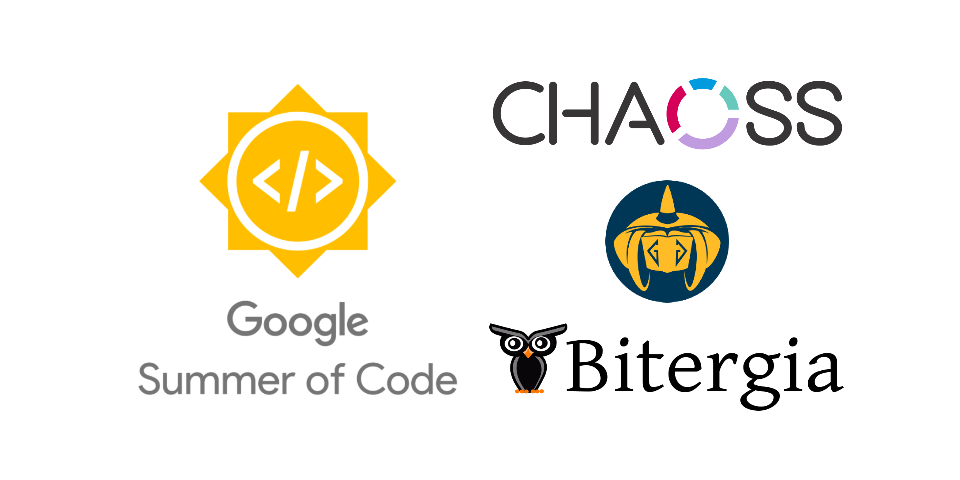
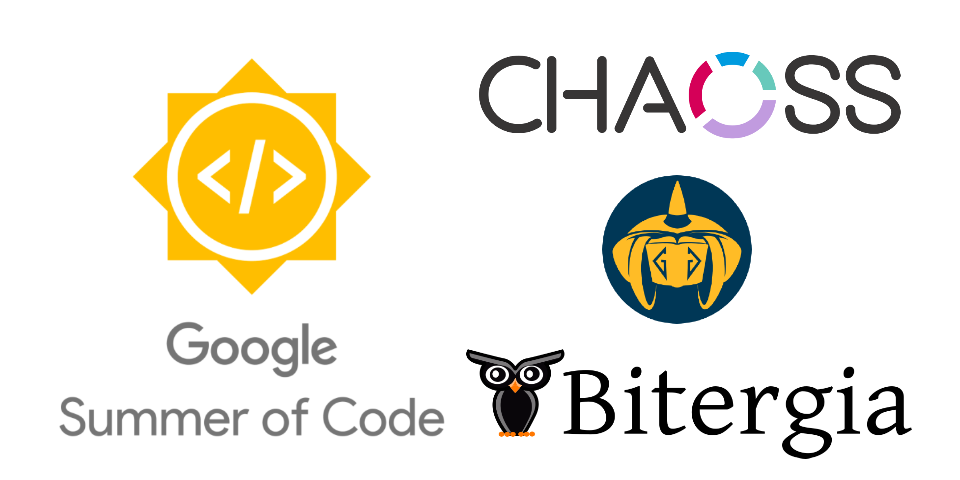
Update README.md
- This commit filters the contributions section.
- Updates the gsoc banner image

Changed region(s): [[0.0625, 0.125, 0.9688, 0.9688], [0.5, 0.0938, 0.9375, 0.3125], [0.625, 0.3438, 0.7812, 0.6875]]

diff --git a/README.md b/README.md
@@ -1,5 +1,5 @@
 <div align="center">
-    <a href="https://summerofcode.withgoogle.com/projects/#5489558193438720"><img src="notes/gsoc-chaoss-banner.png" width="720" alt="google-summer-of-code"></a>
+    <a href="https://summerofcode.withgoogle.com/projects/#5489558193438720"><img src="notes/gsoc.png" width="720" alt="google-summer-of-code"></a>
     <h2>
     Creating Quality models using GrimoireLab and <a href="https://github.com/chaoss">CHAOSS</a> metrics
     </h2>
@@ -7,7 +7,7 @@
 
 <p align="center">
 	<a href="#project-abstract">Project Abstract</a> | 
-	<a href="#pull-requests--issues">Pull Requests & Issues</a> | 
+	<a href="#working-branches">Working Branches & Pull Requests</a> | 
 	<a href="#weekly-updates">Weekly Updates</a> | 
 	<a href="#links">Links</a>
 </p>
@@ -33,11 +33,9 @@ The main aim of the project is to design an approach to shape the GrimoireLab da
 - _gitlabqm_+_gitqm_ enricher :fast_forward: https://github.com/vchrombie/grimoirelab-elk/tree/gitlabqm+gitqm
 - qm-v3 (_gitlabqm, gitqm, pipermailqm, meetupqm_) :fast_forward: https://github.com/vchrombie/grimoirelab-elk/tree/qm-v3
 
-## Pull Requests & Issues
+## Pull Requests
 
 #### [Bitergia/prosoul](https://github.com/Bitergia/prosoul)
-
-Pull Requests
 
 - [#207](https://github.com/Bitergia/prosoul/pull/207): [panels] update attribute-template.json **`/ap`**
 - [#206](https://github.com/Bitergia/prosoul/pull/206): [views] update the viz result kibana_url **`/ap`**
@@ -47,14 +45,7 @@ Pull Requests
 - [#199](https://github.com/Bitergia/prosoul/pull/199): add license headers and copyright information **`/ap`**
 - [#196](https://github.com/Bitergia/prosoul/pull/196): [docs] fixed minor typos in README.md **`/ap`**
 
-Issues
-
-- [#205](https://github.com/Bitergia/prosoul/issues/205): Kibana dashboard URL doesn't have the port number **`/ap`**
-- [#204](https://github.com/Bitergia/prosoul/issues/204): index_pattern is not up to date in the templates **`/ap`**
-
 #### [chaoss/grimoirelab-elk](https://github.com/chaoss/grimoirelab-elk)
-
-Pull Requests
 
 - [#926](https://github.com/chaoss/grimoirelab-elk/pull/926): [qm-elk] Add support for QM data enrichment **`/cp2`**
 - [#902](https://github.com/chaoss/grimoirelab-elk/pull/902): [qm-elk] Add support for QM data enrichment **`/cp1`**
@@ -66,36 +57,17 @@ Pull Requests
 - [#788](https://github.com/chaoss/grimoirelab-elk/pull/788): Update README.md **`/ap`**
 - [#787](https://github.com/chaoss/grimoirelab-elk/pull/787): [doc] fix mistake in README.md **`/ap`**
 
-Issues
-
-- [#876](https://github.com/chaoss/grimoirelab-elk/issues/876): [Rocket.Chat] Add rocketchat backend support to ELK **`/cb`**
-
 #### [chaoss/grimoirelab-perceval](https://github.com/chaoss/grimoirelab-perceval)
-
-Pull Requests
 
 - [#667](https://github.com/chaoss/grimoirelab-perceval/pull/667): [backend] Add Zulip Backend **`/cb`**
 - [#624](https://github.com/chaoss/grimoirelab-perceval/pull/624), [#623](https://github.com/chaoss/grimoirelab-perceval/pull/623): [perceval] Update license and copyright information **`/ap`**
 - [#615](https://github.com/chaoss/grimoirelab-perceval/pull/615): [github] Update the docstrings **`/ap`**
 
-Issues
-
-- [#668](https://github.com/chaoss/grimoirelab-perceval/issues/668): [googlehits] Returns None object **`/cb`**
-- [#665](https://github.com/chaoss/grimoirelab-perceval/issues/665): Issue template **`/cb`**
-- [#664](https://github.com/chaoss/grimoirelab-perceval/issues/664): [Feature Request] Add support for Trello **`/cb`**
-- [#630](https://github.com/chaoss/grimoirelab-perceval/issues/630): [Feature Request] Add support for Zulip **`/ap`**
-
 #### [chaoss/grimoirelab-sirmordred](https://github.com/chaoss/grimoirelab-sirmordred)
-
-Pull Requests
 
 - [#476](https://github.com/chaoss/grimoirelab-sirmordred/pull/476): [docs] Update Getting-Started.md result image **`/cp1`**
 - [#450](https://github.com/chaoss/grimoirelab-sirmordred/pull/450): [docs] revamp of getting-started.md **`/ap`**
 - [#431](https://github.com/chaoss/grimoirelab-sirmordred/pull/431): Fix askbot configuration typos **`/ap`**
-
-Issues
-
-- [#433](https://github.com/chaoss/grimoirelab-sirmordred/issues/433):  Issue regarding the back-links #433 **`/ap`**
 
 > **Tags**:
 > - **a**pplication **p**eriod : **`/ap`**
